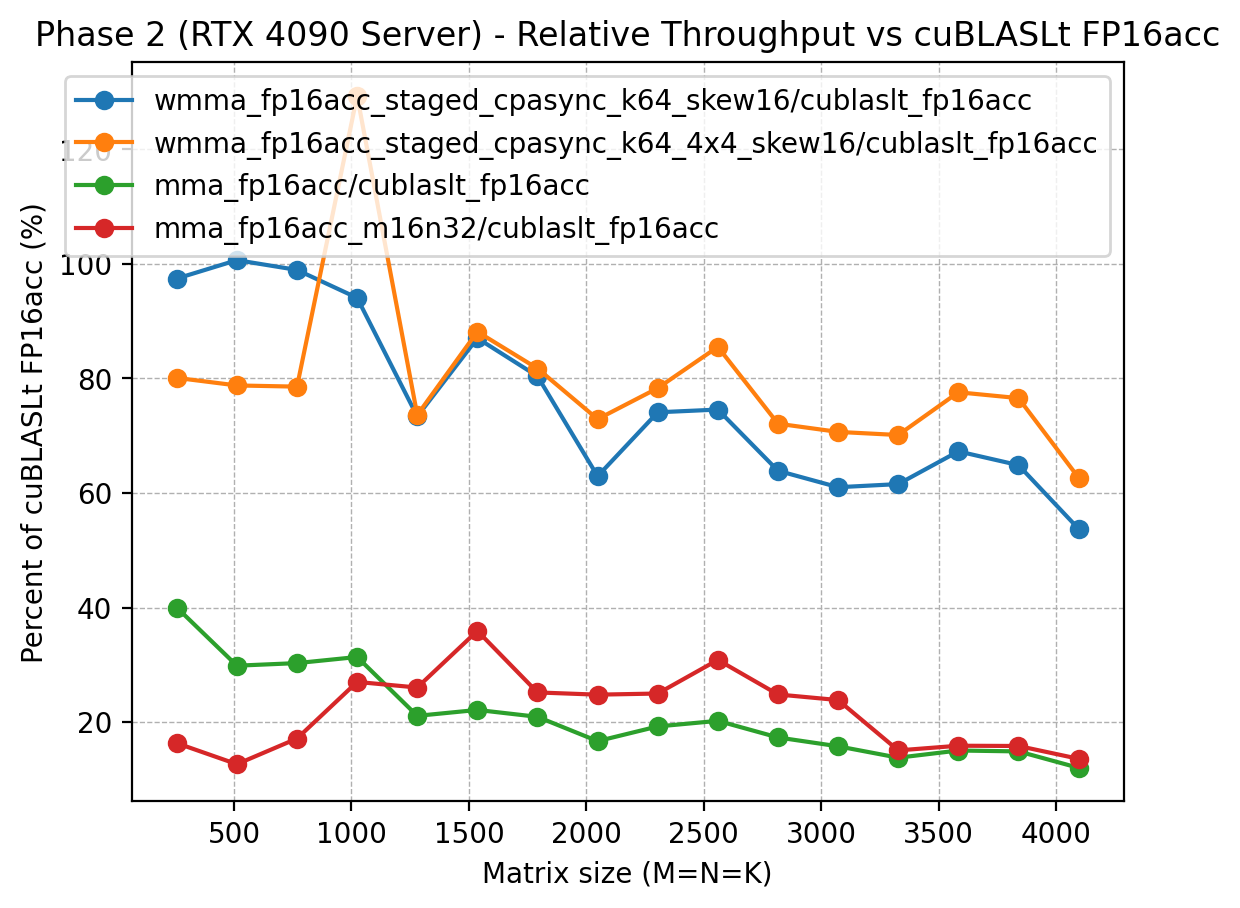
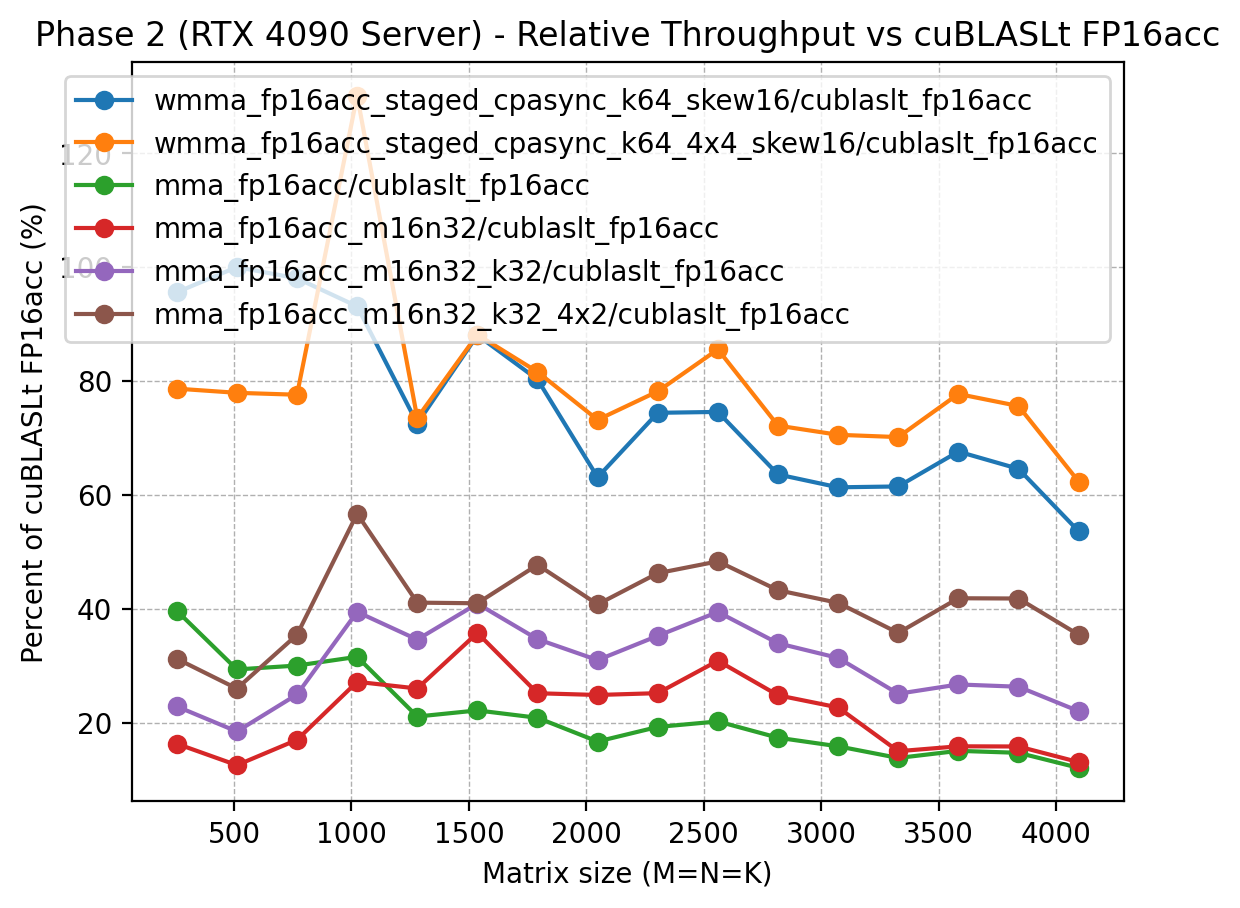
新增mma_fp16acc_m16n32_k32_4x2算子，相比 k32 基本全尺寸提升。说明之前的主要问题之一确实是 CTA 输出面积太小、B 复用不足、block 数过多

diff --git a/scripts/plot.py b/scripts/plot.py
@@ -86,6 +86,7 @@ PHASE2_4090_IMPLS = [
     "mma_fp16acc",
     "mma_fp16acc_m16n32",
     "mma_fp16acc_m16n32_k32",
+    "mma_fp16acc_m16n32_k32_4x2",
     # "cublas_gemmex_fp16acc",
     "cublaslt_fp16acc",
 ]
